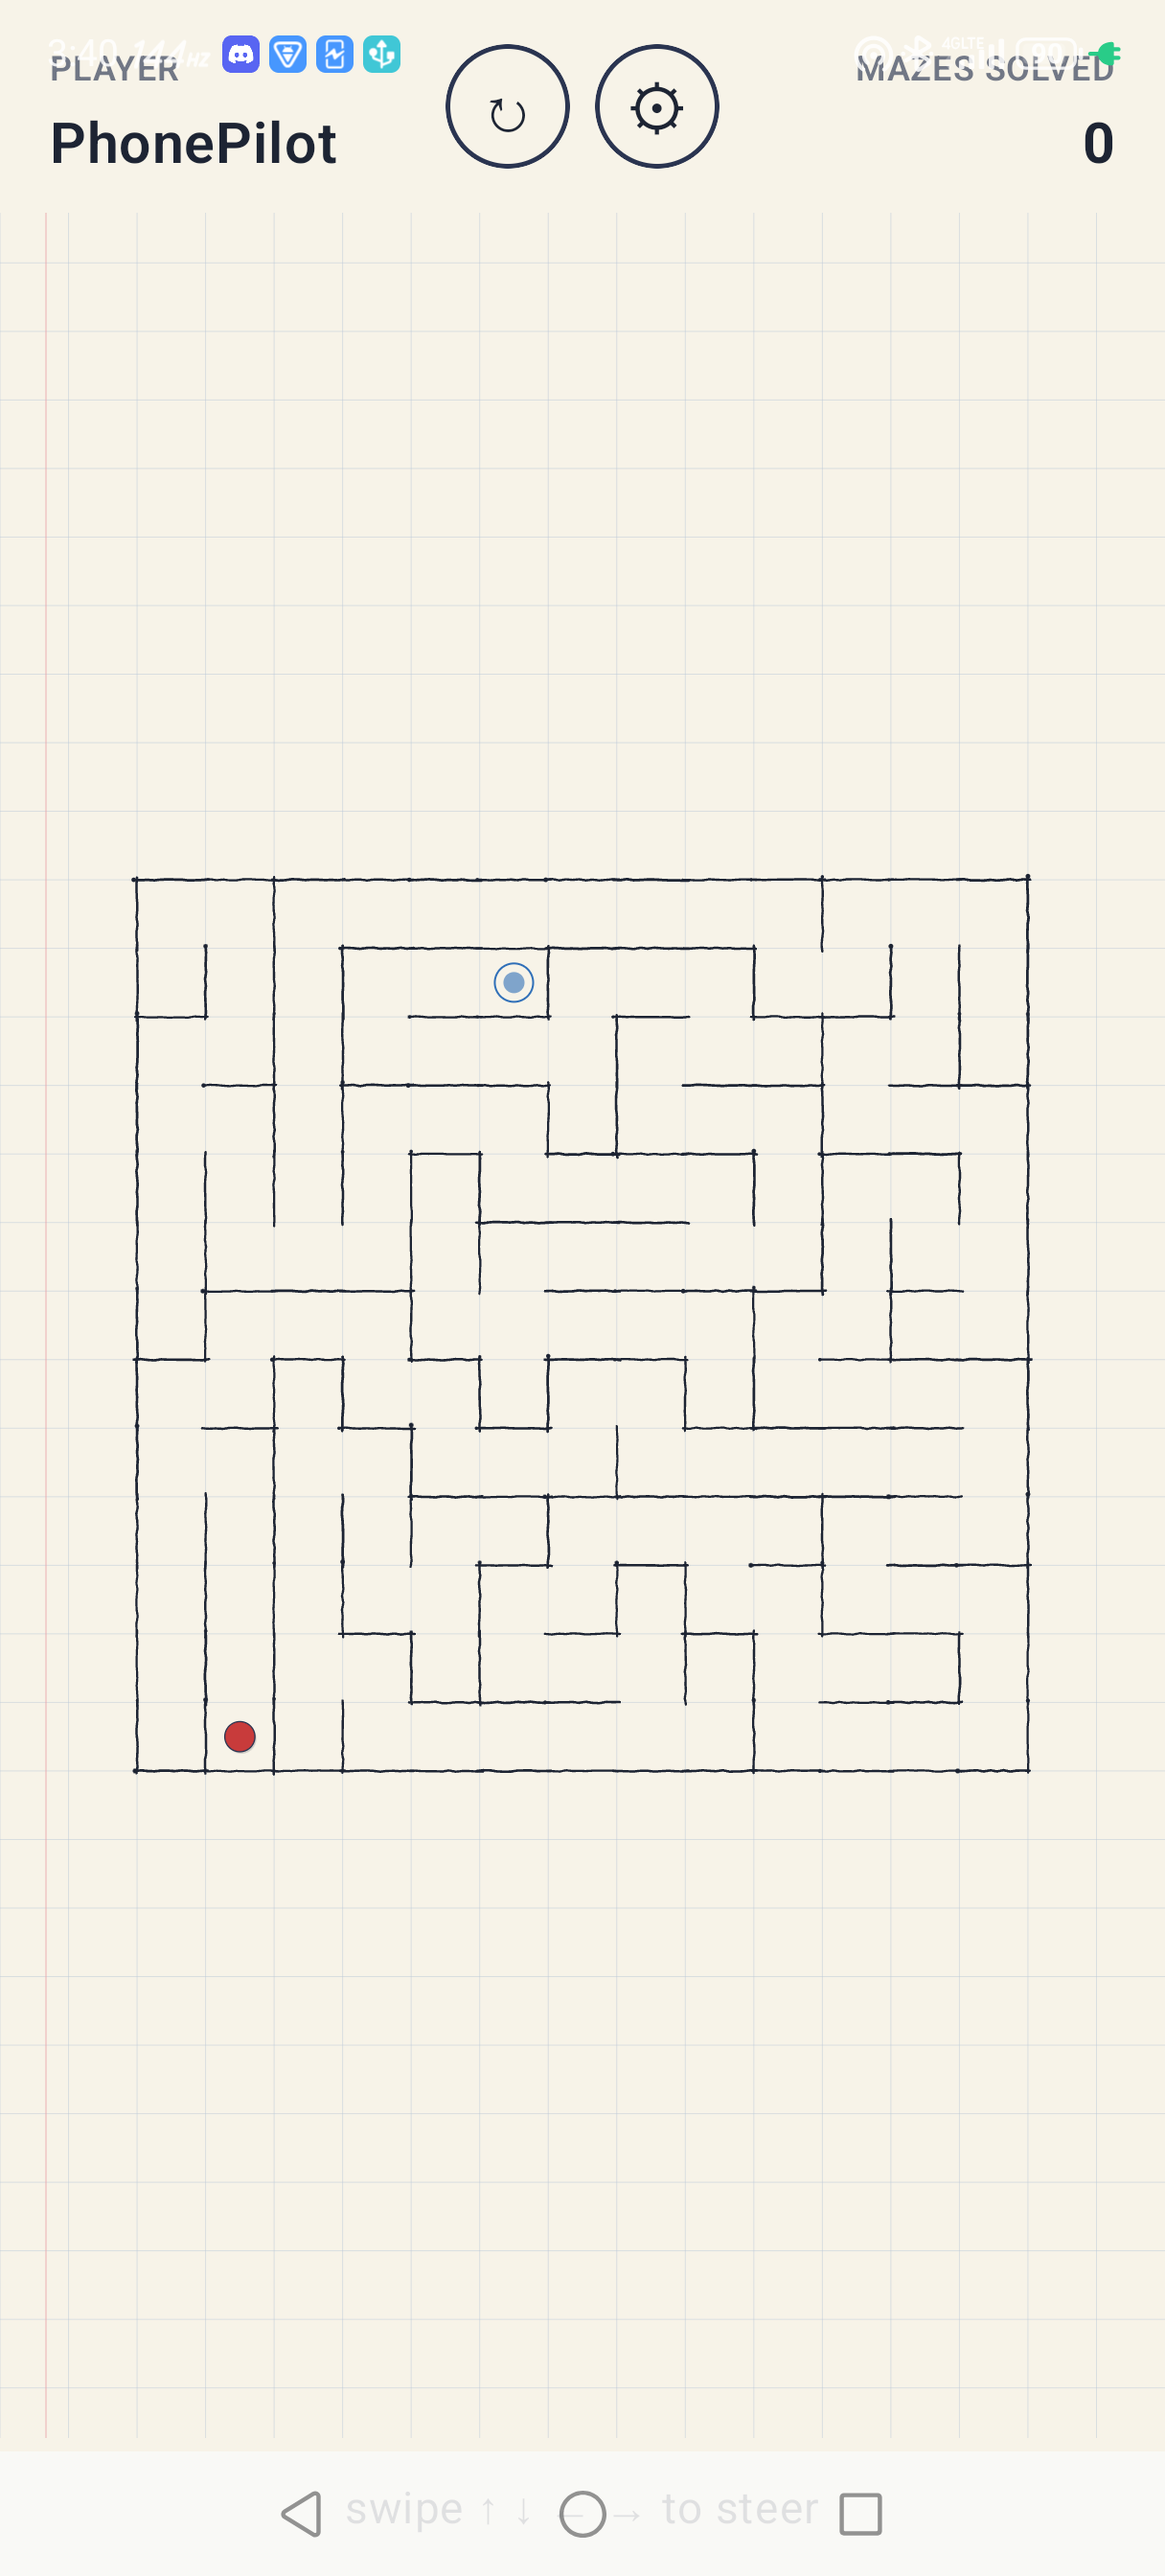
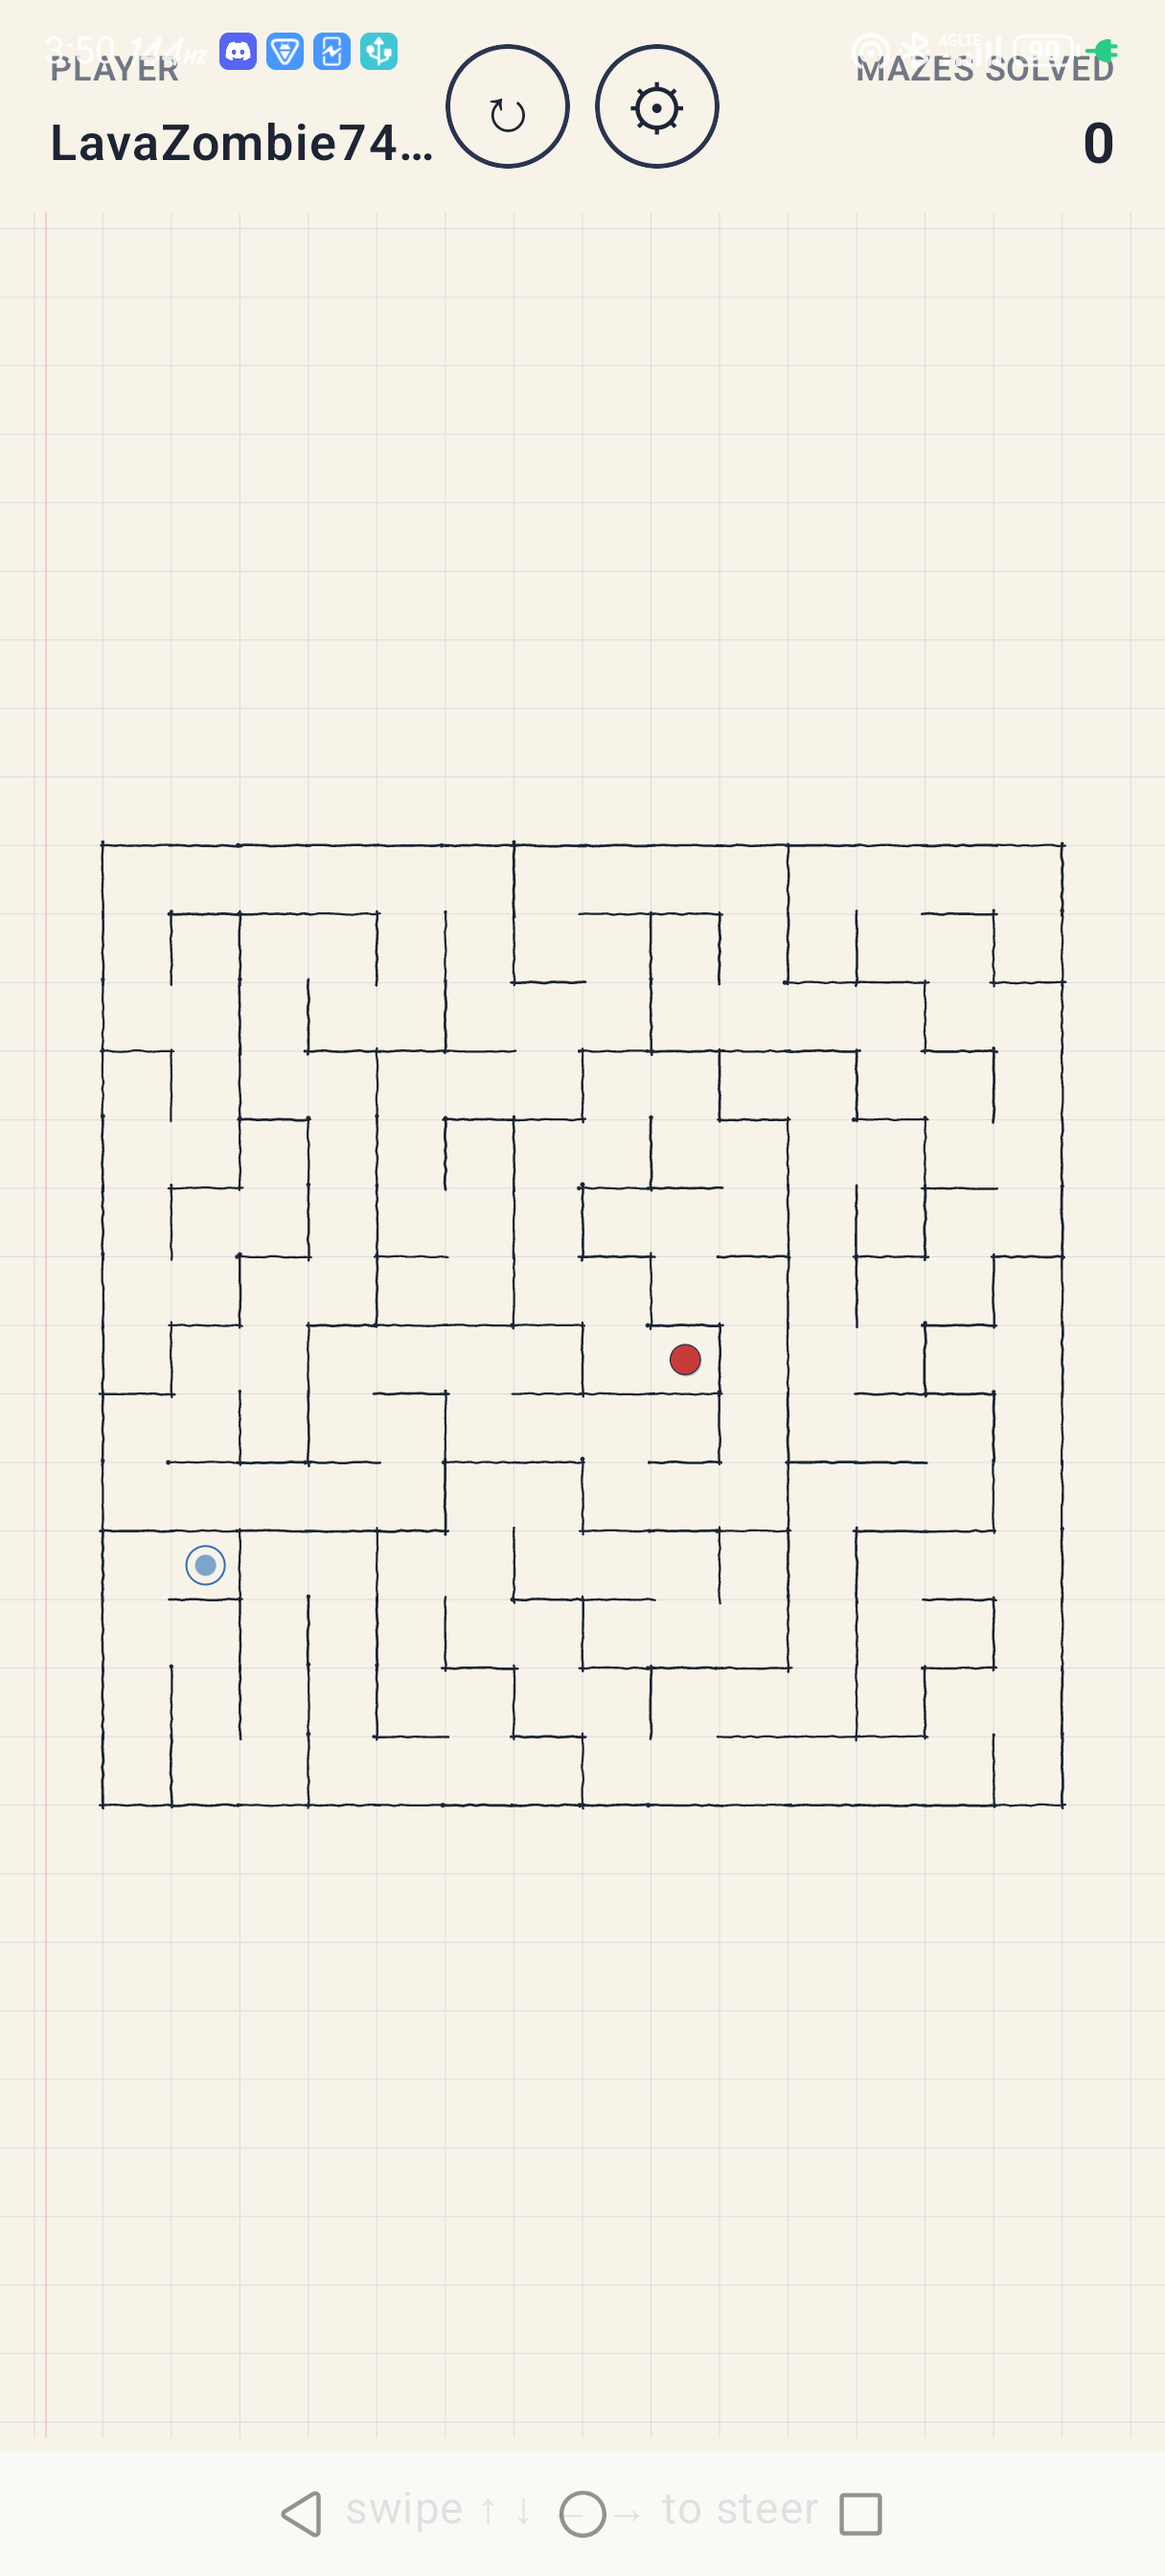
chore: replace personal name with LavaZombie7404, retake screenshots
- scripts/marketing-screenshots.mjs: drives the live web app with
  the published nickname instead of a personal first name.
- CLAUDE.md: drops the literal `/home/iacob/...` host path and
  describes the Claude Code memory path slug abstractly.
- ui/MainScreen.kt: HUD player name now uses maxLines = 1 +
  overflow = Ellipsis at a slightly smaller font, so long handles
  truncate cleanly instead of wrapping the header to two lines.
- docs/images/web-mobile.png + docs/images/android-mobile.png:
  recaptured against the live deploys with the new nickname.

Git history still references the host path in the same CLAUDE.md
line at the original 06ff819 commit. A `git filter-repo` /
force-push rewrite is the next step if a clean blob history matters
— intentionally separated so this commit is recoverable.

diff --git a/android/app/src/main/kotlin/com/lavazombie/amazegame/ui/MainScreen.kt b/android/app/src/main/kotlin/com/lavazombie/amazegame/ui/MainScreen.kt
@@ -25,6 +25,7 @@ import androidx.compose.ui.draw.clip
 import androidx.compose.ui.graphics.Color
 import androidx.compose.ui.text.TextStyle
 import androidx.compose.ui.text.font.FontWeight
+import androidx.compose.ui.text.style.TextOverflow
 import androidx.compose.ui.unit.dp
 import androidx.compose.ui.unit.sp
 import androidx.compose.foundation.BorderStroke
@@ -95,8 +96,10 @@ private fun Hud(
             Text(
                 playerName,
                 color = INK,
-                fontSize = 18.sp,
+                fontSize = 16.sp,
                 fontWeight = FontWeight.SemiBold,
+                maxLines = 1,
+                overflow = TextOverflow.Ellipsis,
             )
         }
         Row(verticalAlignment = Alignment.CenterVertically) {

diff --git a/CLAUDE.md b/CLAUDE.md
@@ -63,7 +63,7 @@ Where to put what:
 - Architecture, module-shape, or rendering patterns → `docs/architecture.md`
 - PRD-level facts → `docs/requirements.md`
 - Cross-cutting meta-rules + a one-line index of the lessons themselves → here, below.
-- Persistent user/project context across sessions → the memory system in `~/.claude/projects/-home-lavazombie-aMazeGame/memory/`.
+- Persistent user/project context across sessions → the memory system Claude Code maintains at `~/.claude/projects/<slug>/memory/` (the slug is derived from the absolute path of this checkout).
 
 ### Lesson log (one-liners, link out for detail)
 
